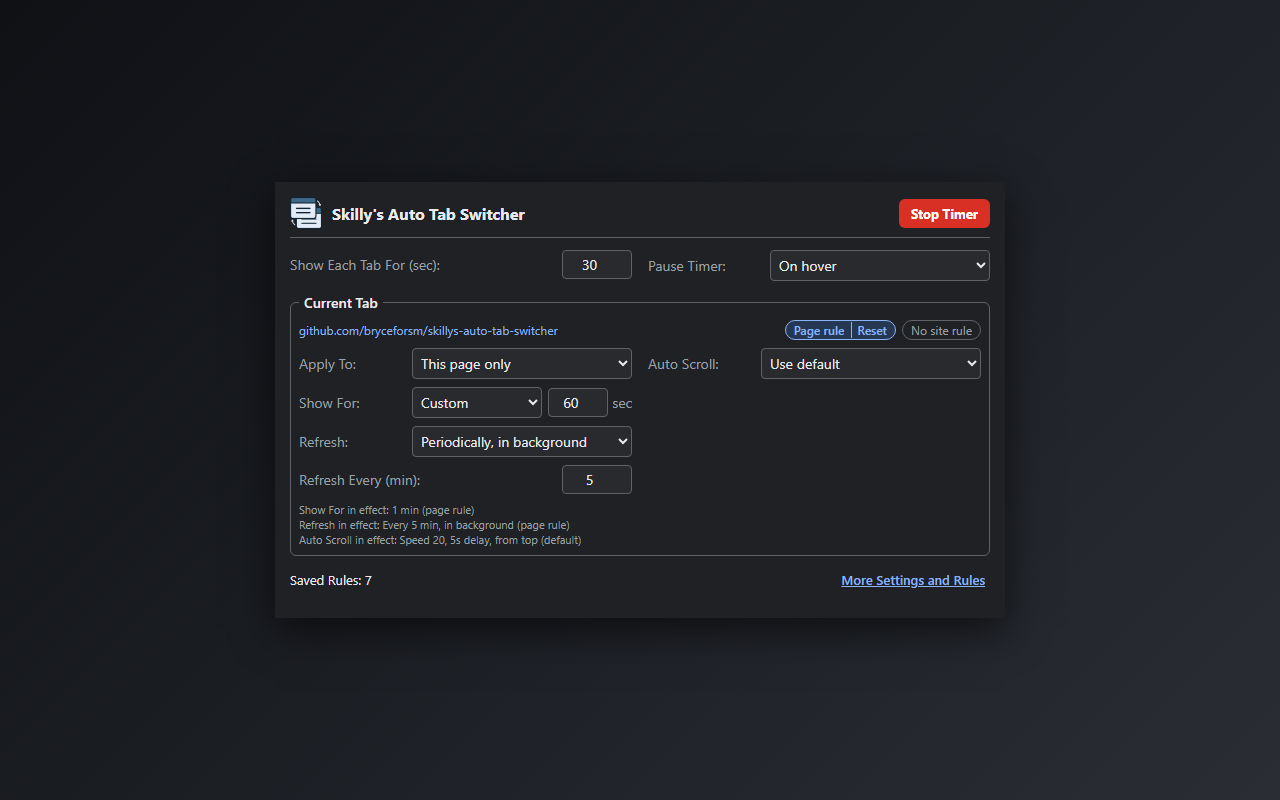
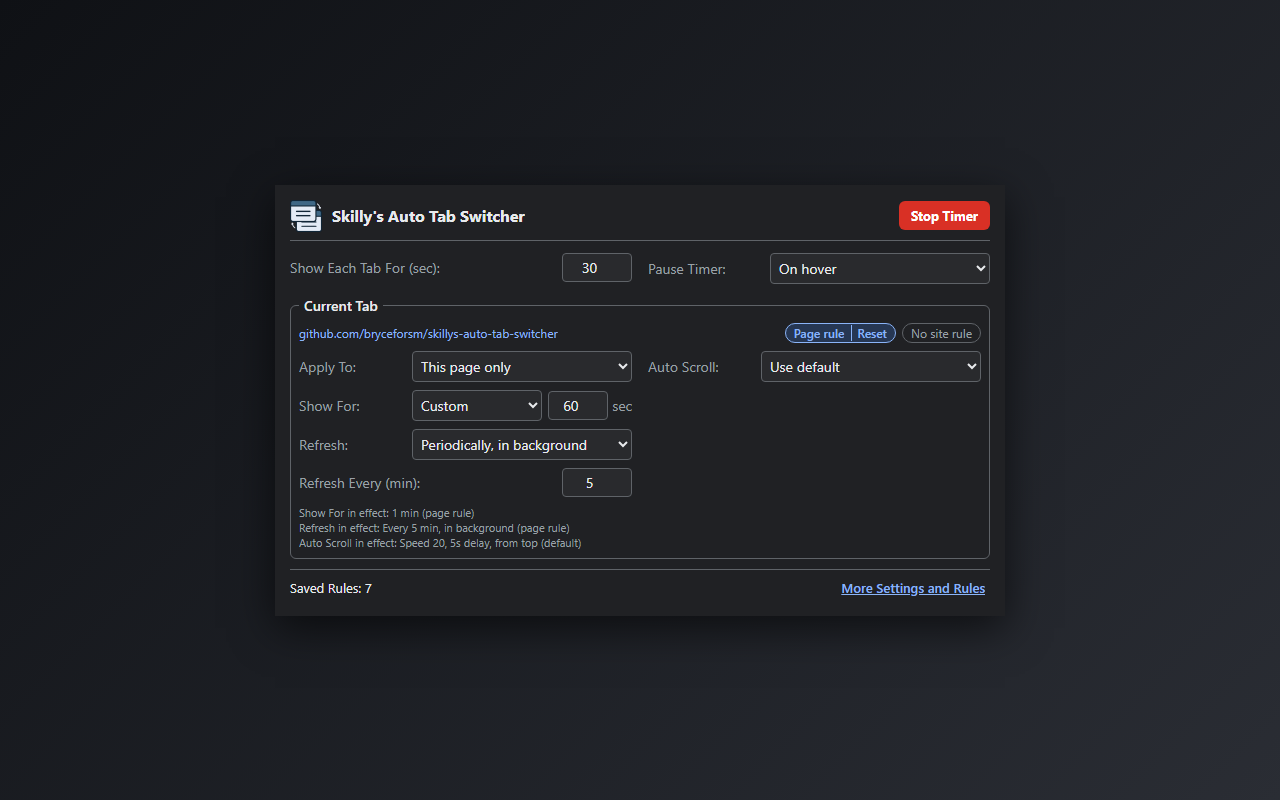
Update screenshot descriptions and enhance popup styling for improved clarity and aesthetics

diff --git a/TabSwitcherExtension/popup.html b/TabSwitcherExtension/popup.html
@@ -137,6 +137,10 @@
             gap: 4px;
             font-size: 12px;
             color: #188038;
+            margin-top: 4px;
+        }
+        #status:has(#statusText:empty) {
+            display: none;
         }
         #status .link-button {
             padding: 0 5px;
@@ -238,7 +242,9 @@
             align-items: center;
             justify-content: space-between;
             font-size: 13px;
-            margin-bottom: 10px;
+            /* Mirrors the header line so the popup has a clear bottom edge. */
+            border-top: 1px solid #e0e0e0;
+            padding-top: 4px;
         }
         :root[data-theme="dark"] {
             color-scheme: dark;
@@ -260,7 +266,7 @@
                 color: #e8eaed;
                 border: 1px solid #5f6368;
             }
-            fieldset, .header-container {
+            fieldset, .header-container, .rules-row {
                 border-color: #5f6368;
             }
             .rule-chip {

diff --git a/.github/skills/store-screenshots/SKILL.md b/.github/skills/store-screenshots/SKILL.md
@@ -17,7 +17,7 @@ Renders the real `popup.html` and `rules.html` with sample data in headless Edge
 
    | File | Use |
    |---|---|
-| `Misc/screenshot.png` | README image (popup with out-of-box settings, light and dark diagonal split, square corners) |
+| `Misc/screenshot.png` | README image (popup with out-of-box settings, light and dark diagonal split, light 1px frame on the dark half, square corners) |
 | `Misc/screenshot640x400.jpeg` | Small store screenshot (same out-of-box image) |
    | `Screenshot/popup-light.png`, `popup-dark.png` | 1280x800 store screenshots |
 | `Screenshot/popup-defaults.png` | 1280x800, out-of-box settings with no rules and the timer stopped |
